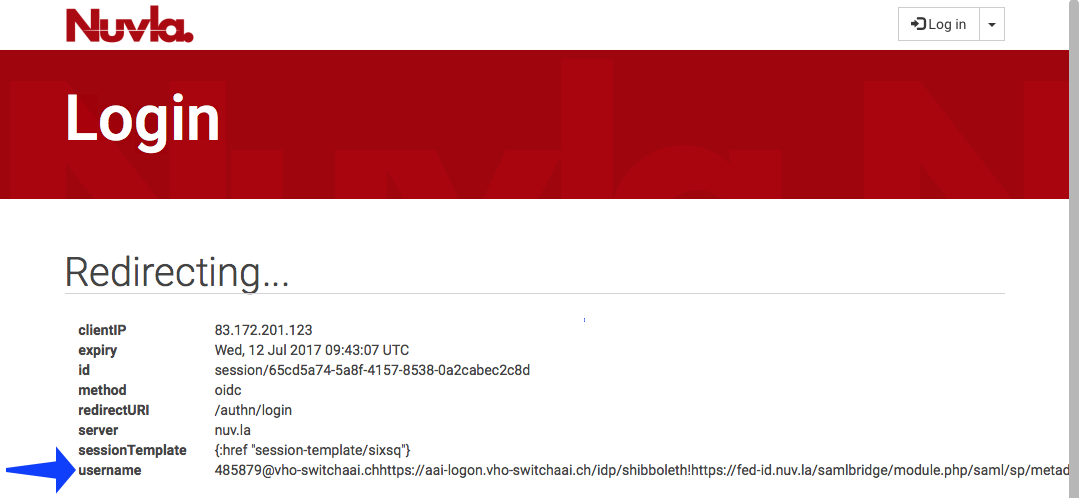
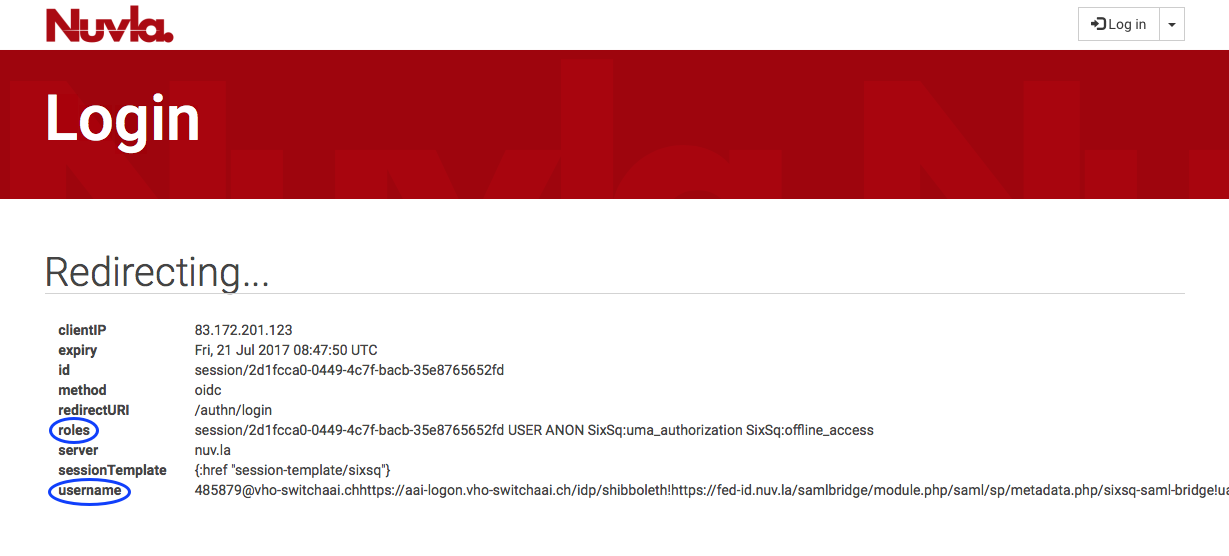
update session information

Changed region(s): [[0.0, 0.0, 1.0, 1.0]]

diff --git a/docs/getting-started/activation.rst b/docs/getting-started/activation.rst
@@ -61,7 +61,9 @@ their institute's login page.
 
 5. When successfully authenticating with the identity provider, the
    user will then be redirected back to Nuvla, which will show the
-   active session parameters, including the user's full username.
+   active session parameters, including the user's full username and
+   roles.  `This page <https://nuv.la/authn/login>`_ can be viewed at
+   anytime to show this information.
 
 .. image:: ../images/nuvlaSessionInfo.png
    :alt: User's session information
